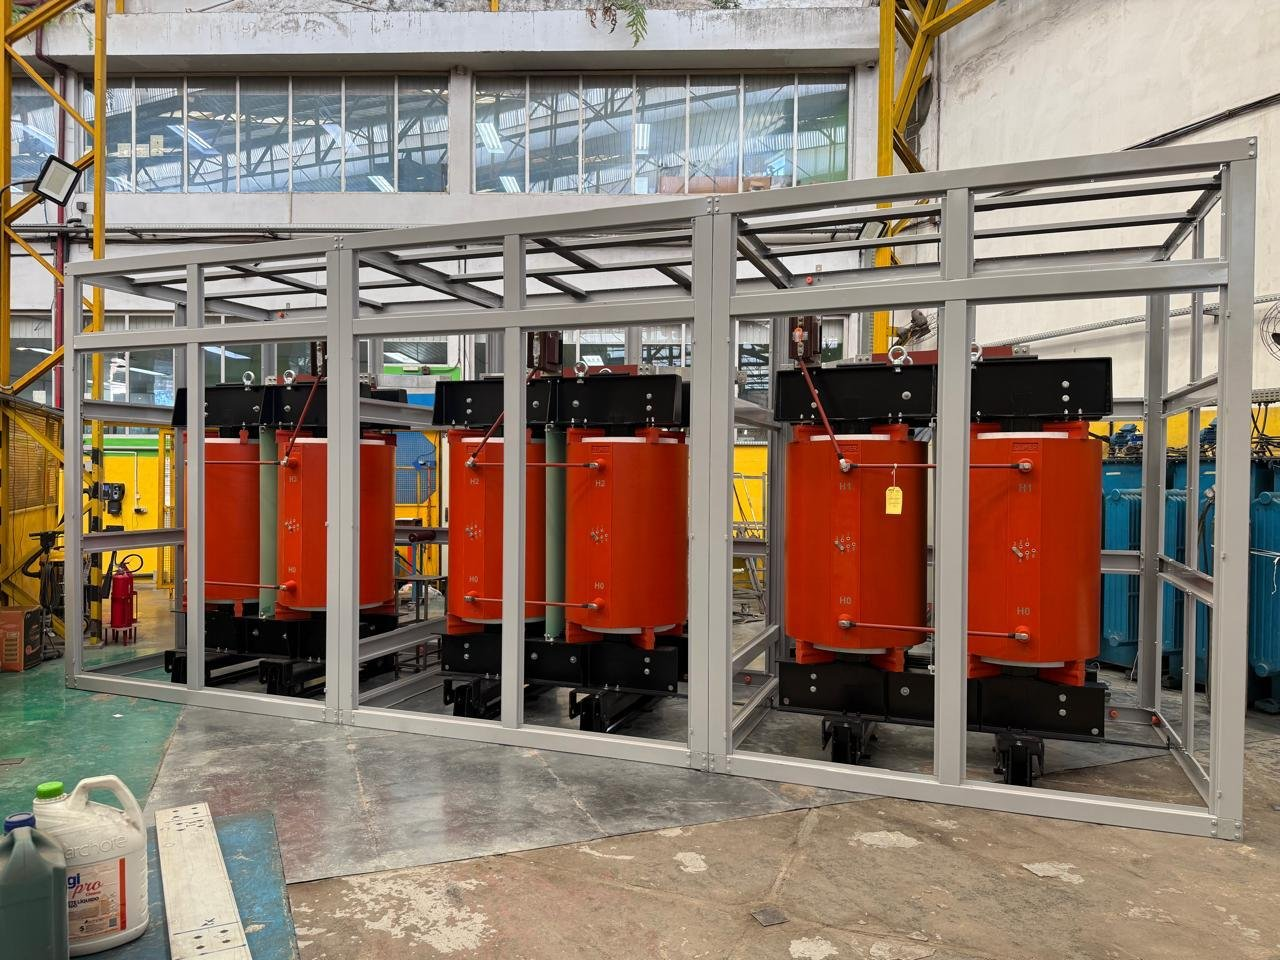
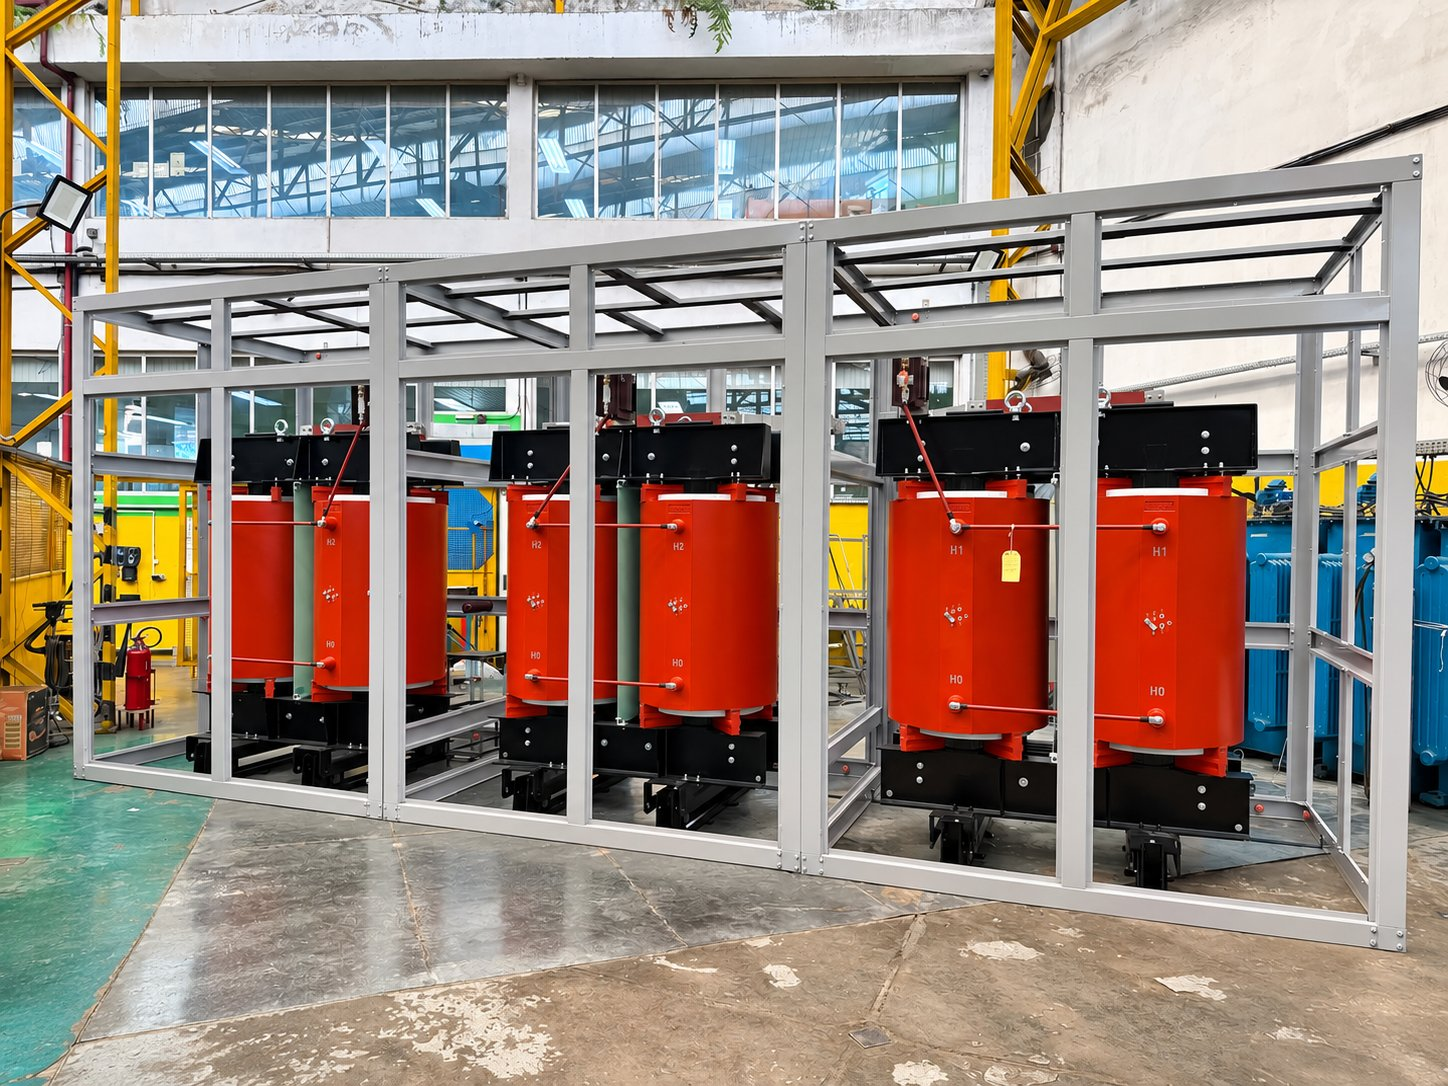
fix: volta cards de Oleo e Gas e Data Centers ao padrao dos outros setores
Reverte a capa com legenda embutida do commit anterior: as duas novas
fotos (sem texto na imagem) usam o mesmo overlay + titulo + contagem
dos demais 5 setores. Campo "capaComTexto" removido.

Tambem atualiza a foto 02 do UHE Tucurui por uma nova versao em
resolucao maior da mesma cena.

diff --git a/app/[locale]/projetos-entregues/page.tsx b/app/[locale]/projetos-entregues/page.tsx
@@ -16,10 +16,6 @@ import dataEs from '@/data/projetos-entregues.es.json'
 type Setor = {
   titulo: string
   imagemCapa: string
-  // Capa já vem com legenda e caixa de texto desenhadas na própria imagem —
-  // o card renderiza só a foto, sem o overlay/título que os demais setores
-  // recebem por cima, senão duplicaria o texto.
-  capaComTexto?: boolean
 }
 
 type Projeto = {
@@ -79,8 +75,8 @@ export default function ProjetosRealizadosPage() {
                 {capa ? (
                   <Image
                     src={capa}
-                    alt={setor.capaComTexto ? setor.titulo : ''}
-                    aria-hidden={setor.capaComTexto ? undefined : 'true'}
+                    alt=""
+                    aria-hidden="true"
                     fill
                     className={styles.image}
                     sizes="(max-width: 768px) 100vw, (max-width: 1024px) 50vw, 33vw"
@@ -88,19 +84,15 @@ export default function ProjetosRealizadosPage() {
                 ) : (
                   <div className={styles.capaVazia} aria-hidden="true" />
                 )}
-                {!setor.capaComTexto && (
-                  <>
-                    <div className={styles.overlay} aria-hidden="true" />
-                    <div className={styles.cardContent}>
-                      <h2 className={styles.cardTitle}>{setor.titulo}</h2>
-                      <span className={styles.cardMeta}>
-                        {total > 0
-                          ? `${total} ${total === 1 ? t.projeto : t.projetos}`
-                          : t.emBreve}
-                      </span>
-                    </div>
-                  </>
-                )}
+                <div className={styles.overlay} aria-hidden="true" />
+                <div className={styles.cardContent}>
+                  <h2 className={styles.cardTitle}>{setor.titulo}</h2>
+                  <span className={styles.cardMeta}>
+                    {total > 0
+                      ? `${total} ${total === 1 ? t.projeto : t.projetos}`
+                      : t.emBreve}
+                  </span>
+                </div>
               </div>
             )
 
